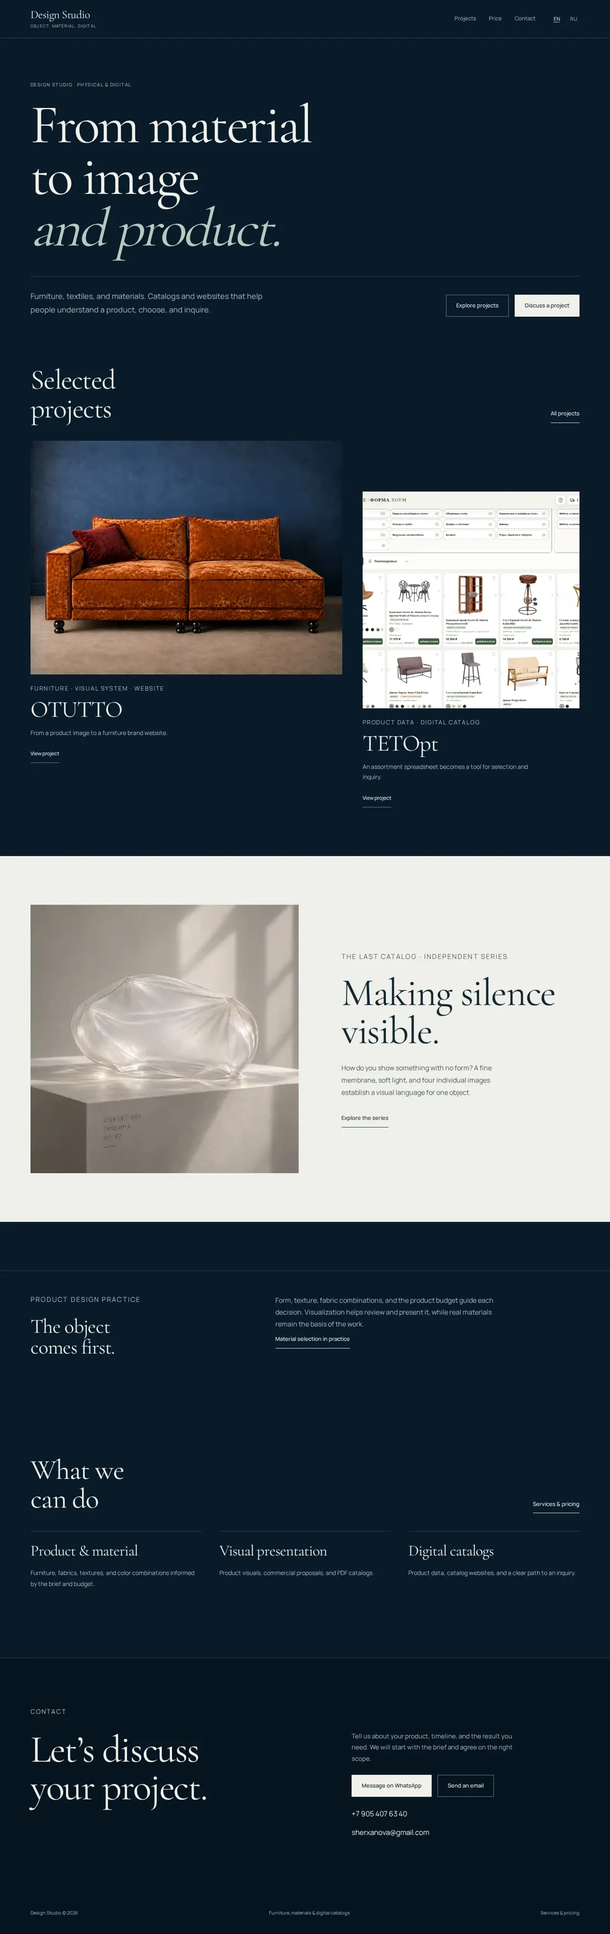
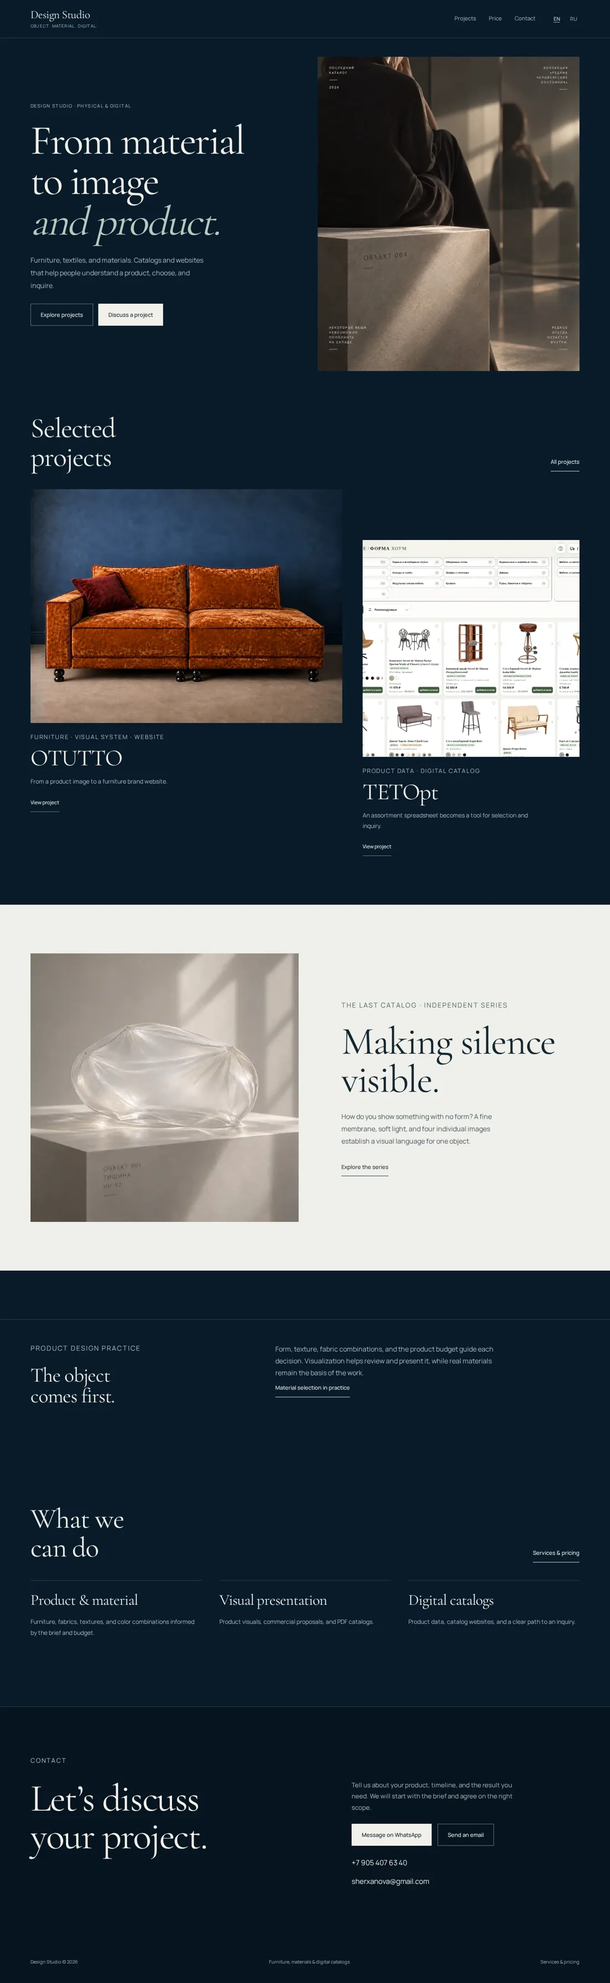
Complete bilingual hero with supplied original girl on cube artwork

diff --git a/studio.css b/studio.css
@@ -19,9 +19,12 @@ h1,h2,h3,h4,p,dl,dd{margin:0}h1,h2,h3{font-family:var(--serif);font-weight:400;l
 .desktop-nav{display:flex;align-items:center;justify-content:center;gap:30px;margin-left:auto}.desktop-nav a,.languages a{display:flex;align-items:center;justify-content:center;min-height:44px;font-size:13px;line-height:1.5}.desktop-nav a{color:var(--muted);border-bottom:1px solid transparent}.desktop-nav a:hover,.desktop-nav a[aria-current=page]{color:var(--ivory);border-bottom-color:var(--sage)}
 .languages{display:flex;gap:12px;align-items:center;flex-shrink:0}.languages a{color:var(--muted);font-size:12px;min-width:28px}.languages a[aria-current=page],.languages a[aria-current=true]{color:var(--ivory);text-decoration:underline;text-decoration-color:var(--sage)}.mobile-menu{display:none}
 .eyebrow,.hero-kicker,.project-meta{font-size:11px;line-height:1.6;letter-spacing:.13em;text-transform:uppercase;color:var(--sage)}.eyebrow,.hero-kicker{margin-bottom:26px}
-.home-hero{padding-top:clamp(58px,7vw,108px);padding-bottom:var(--section)}
-.home-hero h1{font-size:clamp(78px,9vw,136px);line-height:.94;max-width:1100px;letter-spacing:-.035em}.home-hero h1 em{color:var(--sage)}
-.hero-bottom{display:grid;grid-template-columns:minmax(0,1.1fr) minmax(0,1fr);gap:80px;align-items:end;margin-top:52px;padding-top:30px;border-top:1px solid var(--line)}.hero-bottom>p,.hero-bottom .lead{font-size:18px;line-height:1.8;max-width:50ch;color:var(--muted)}.hero-bottom .actions{justify-content:flex-end}
+.home-hero{display:grid;grid-template-columns:minmax(0,1fr) minmax(0,1.02fr);gap:clamp(36px,5vw,76px);align-items:center;padding-top:44px;padding-bottom:clamp(64px,7vw,104px)}
+.hero-copy{display:flex;flex-direction:column;gap:28px;align-items:flex-start}
+.home-hero h1{font-size:clamp(64px,6.8vw,100px);line-height:.98;letter-spacing:-.035em}.home-hero h1 em{color:var(--sage)}
+.hero-description{font-size:16px;line-height:1.85;max-width:43ch;color:var(--muted)}
+.hero-art{width:100%;max-width:620px;justify-self:end}.hero-art img{width:100%;height:auto;object-fit:contain}
+.home-hero .hero-actions{gap:12px}
 .actions{display:flex;flex-wrap:wrap;gap:14px;align-items:center}.button{display:inline-flex;justify-content:center;align-items:center;gap:10px;min-height:52px;max-width:100%;padding:13px 23px;background:var(--ivory);border:1px solid var(--ivory);color:var(--navy);font-size:13px;font-weight:500;line-height:1.6;text-align:center;transition:background .18s,border-color .18s,color .18s}.button:hover{background:var(--sage);border-color:var(--sage)}.button.secondary{background:transparent;color:var(--ivory);border-color:#70828a}.button.secondary:hover{background:var(--navy-soft);border-color:var(--sage)}.text-link{display:inline-flex;align-items:center;min-height:44px;padding:9px 0;border-bottom:1px solid currentColor;font-size:13px;font-weight:500;line-height:1.6}.text-link:hover{color:var(--sage)}
 .section-head{display:flex;justify-content:space-between;gap:50px;align-items:end;margin-bottom:42px}.section-head h2{max-width:14ch}.section-head p{max-width:39ch;color:var(--muted);font-size:14px}.section-head .text-link{flex-shrink:0}
 .project-grid{display:grid;grid-template-columns:repeat(12,minmax(0,1fr));column-gap:48px;row-gap:80px;margin-bottom:var(--section)}.project-card{grid-column:span 6;display:block}.project-card.large{grid-column:span 7}.project-card.small{grid-column:span 5;margin-top:120px}.project-image{display:block;aspect-ratio:4/3;overflow:hidden;background:var(--navy-soft)}.project-image img,img.project-image{width:100%;height:100%;object-fit:cover}.project-card .project-image img{transition:transform .35s ease}.project-card:hover .project-image img{transform:scale(1.015)}.project-card.small .project-image{aspect-ratio:1/1}.project-meta{display:block;margin-top:22px;font-size:10px;color:var(--muted)}.project-card h3{font-size:clamp(38px,3.8vw,58px);margin:10px 0 15px}.project-card p{font-size:14px;color:var(--muted);max-width:48ch}.project-link{display:inline-flex;align-items:center;min-height:44px;margin-top:15px;border-bottom:1px solid #718590;font-size:12px;font-weight:500}.project-card:hover .project-link{border-color:var(--ivory)}
@@ -34,13 +37,13 @@ h1,h2,h3,h4,p,dl,dd{margin:0}h1,h2,h3{font-family:var(--serif);font-weight:400;l
 .case-hero{padding-top:clamp(55px,7vw,104px);padding-bottom:52px}.case-hero h1{font-size:clamp(60px,7.7vw,116px);max-width:17ch}.case-hero .lead,.case-hero>p:last-child:not(.eyebrow){font-size:18px;color:var(--muted);max-width:60ch;margin-top:30px}.case-hero .actions{margin-top:30px}.case-cover{display:block;width:100%;background:var(--navy-soft);margin-bottom:55px}.case-cover>img,img.case-cover{width:100%;height:auto;max-height:900px;object-fit:cover}.case-cover figcaption{padding:14px 0 0;background:var(--navy);color:var(--muted);font-size:12px;line-height:1.8}.case-facts{display:grid;grid-template-columns:repeat(3,minmax(0,1fr));gap:45px;border-top:1px solid var(--line);border-bottom:1px solid var(--line);padding:29px 0 34px;margin-bottom:var(--section)}.case-facts dt{font-size:11px;line-height:1.6;letter-spacing:.09em;text-transform:uppercase;color:var(--sage);margin-bottom:12px}.case-facts dd{font-size:14px;line-height:1.9;color:var(--muted)}
 .case-section{display:grid;grid-template-columns:minmax(0,.8fr) minmax(0,1.2fr);gap:clamp(42px,6vw,94px);align-items:center;margin-top:var(--section);margin-bottom:var(--section)}.case-section.reverse{grid-template-columns:minmax(0,1.2fr) minmax(0,.8fr)}.case-section.reverse .case-section-copy{order:2}.case-section.reverse .case-section-media{order:1}.case-section h2{font-size:clamp(43px,4.3vw,65px);margin-bottom:27px;max-width:18ch}.case-section-copy p{font-size:15px;line-height:1.9;color:var(--muted)}.case-section-copy .text-link{margin-top:22px}.case-section-media img{width:100%;height:auto}.case-section-media figcaption,.image-pair figcaption,.media-caption{margin-top:14px;font-size:12px;line-height:1.8;color:var(--muted);max-width:65ch}.image-pair{display:grid;grid-template-columns:repeat(2,minmax(0,1fr));gap:28px;margin-top:42px;margin-bottom:42px}.image-pair img{width:100%;height:auto}.image-pair .image-contain{max-height:680px;object-fit:contain;background:var(--paper)}.media-frame{background:#dfe5e2;padding:clamp(16px,3vw,44px);color:var(--ink)}.media-frame img{width:100%;height:auto;object-fit:contain}.image-contain{object-fit:contain!important}.case-result{border-top:1px solid var(--line);border-bottom:1px solid var(--line);padding:45px 0 50px;margin-top:var(--section);margin-bottom:var(--section)}.case-result h2{font-size:clamp(42px,4.5vw,68px);max-width:22ch;margin-bottom:26px}.case-result p{font-size:17px;color:var(--muted);max-width:70ch}.case-result .actions{margin-top:30px}.related-projects{display:flex;flex-wrap:wrap;align-items:center;gap:20px 45px;border-top:1px solid var(--line);padding:30px 0 50px}.related-projects h2{font:500 12px/1.5 var(--sans);color:var(--muted);width:100%;margin-bottom:6px}.related-projects a{display:inline-flex;min-height:44px;align-items:center;font-family:var(--serif);font-size:33px}.related-projects a:hover{color:var(--sage)}.notice{font-size:12px;line-height:1.9;color:var(--muted);max-width:80ch;margin-top:24px}.notice a{text-decoration:underline}.source-note{color:var(--muted);font-size:12px;line-height:1.9}.source-note a{text-decoration:underline}.case-section-media .image-pair{margin:0}.case-section-media .image-pair img{aspect-ratio:3/4;object-fit:cover}
 @media(min-width:1600px){.wrap{padding-left:65px;padding-right:65px}.site-header{height:100px}}
-@media(max-width:1100px){.site-header{gap:25px}.desktop-nav{gap:21px}.hero-bottom{gap:38px}.hero-bottom .actions{justify-content:flex-start}.hero-bottom{grid-template-columns:1fr 1fr}.button{padding-left:19px;padding-right:19px}.project-grid{column-gap:30px}.project-card.small{margin-top:90px}.services-preview{gap:28px}.services-preview h3{font-size:32px}.contact-section .wrap{gap:40px}.contact-details .actions{flex-direction:column;align-items:flex-start}.studio-note{gap:60px}.price-item{gap:55px}.scope-grid{gap:22px}}
+@media(max-width:1100px){.site-header{gap:25px}.desktop-nav{gap:21px}.home-hero{gap:32px}.home-hero h1{font-size:clamp(60px,6.8vw,76px)}.hero-copy{gap:22px}.button{padding-left:19px;padding-right:19px}.project-grid{column-gap:30px}.project-card.small{margin-top:90px}.services-preview{gap:28px}.services-preview h3{font-size:32px}.contact-section .wrap{gap:40px}.contact-details .actions{flex-direction:column;align-items:flex-start}.studio-note{gap:60px}.price-item{gap:55px}.scope-grid{gap:22px}}
 @media(max-width:760px){:root{--space:24px;--section:72px}html{scroll-padding-top:90px}body{font-size:15px}.site-header{height:80px;gap:18px}.brand>span,.brand>strong{font-size:25px}.brand small{font-size:9px}.desktop-nav{display:none}.languages{margin-left:auto;gap:6px}.languages a{font-size:11px;min-width:26px}.mobile-menu{display:block;position:static}.mobile-menu summary{display:flex;align-items:center;justify-content:center;min-height:44px;min-width:44px;font-size:12px;list-style:none;border-bottom:1px solid transparent}.mobile-menu summary::-webkit-details-marker{display:none}.mobile-menu summary::marker{content:''}.mobile-menu[open] summary{border-bottom-color:var(--sage)}.mobile-menu nav{position:absolute;top:79px;left:0;right:0;background:var(--navy);border-bottom:1px solid var(--line);padding:16px 24px 25px;box-shadow:0 18px 25px rgba(0,0,0,.15)}.mobile-menu nav a{display:flex;align-items:center;min-height:50px;font-size:16px;border-bottom:1px solid var(--line)}.mobile-menu nav a:last-child{border-bottom:0}.mobile-menu nav a[aria-current=page]{color:var(--sage)}
-.home-hero{padding-top:54px;padding-bottom:64px}.hero-kicker,.eyebrow{font-size:10px;letter-spacing:.1em;margin-bottom:24px}.home-hero h1{font-size:clamp(61px,12.6vw,92px);line-height:.98;letter-spacing:-.03em}.hero-bottom{grid-template-columns:1fr;gap:25px;margin-top:35px;padding-top:25px}.hero-bottom>p,.hero-bottom .lead{font-size:15px;line-height:1.85;max-width:46ch}.hero-bottom .actions{justify-content:flex-start}.actions{gap:11px}.button{min-height:50px;font-size:12px;padding:13px 18px}.section-head{display:block;margin-bottom:28px}.section-head h2{font-size:45px;max-width:17ch}.section-head p{font-size:13px;margin-top:22px}.section-head .text-link{margin-top:16px}.project-grid{grid-template-columns:1fr;gap:44px;margin-bottom:65px}.project-card,.project-card.large,.project-card.small{grid-column:1;margin-top:0}.project-card.small .project-image{aspect-ratio:4/3}.project-card h3{font-size:42px;margin:8px 0 13px}.project-card p{font-size:13px;line-height:1.85}.project-meta{font-size:9px;letter-spacing:.09em;margin-top:19px}.project-link{font-size:12px;margin-top:11px}.silence-layout{grid-template-columns:1fr;gap:34px}.silence-copy h2{font-size:60px;margin-bottom:24px}.silence-copy p{font-size:14px;line-height:1.9;max-width:45ch}.silence-copy .text-link{margin-top:18px}.silence-feature{padding-top:48px;padding-bottom:55px}.services-preview{grid-template-columns:1fr;gap:26px;margin-bottom:28px}.services-preview article{padding-top:22px}.services-preview h3{font-size:34px;margin-bottom:12px}.services-preview p{font-size:13px;line-height:1.85;max-width:48ch}.studio-note{grid-template-columns:1fr;gap:25px;padding-top:36px;padding-bottom:64px;margin-top:60px}.studio-note h2{font-size:42px;max-width:20ch}.studio-note p{font-size:14px;line-height:1.9}.contact-section .wrap{grid-template-columns:1fr;gap:35px}.contact-section h2{font-size:60px;max-width:13ch}.contact-section p{font-size:14px;line-height:1.9;margin-top:24px}.contact-details .actions{flex-direction:row;gap:12px;margin-bottom:20px}.contact-details>a{font-size:16px}.contact-details>p{font-size:11px;margin-top:14px}.site-footer{font-size:10px;padding-top:19px;padding-bottom:23px;align-items:flex-start;gap:15px}.site-footer a{min-height:30px}
+.home-hero{grid-template-columns:1fr;gap:24px;padding-top:32px;padding-bottom:64px}.hero-copy{display:contents}.hero-heading{order:1}.hero-actions{order:2}.hero-art{order:3;justify-self:start;max-width:540px}.hero-description{order:4;font-size:15px;max-width:46ch}.hero-kicker,.eyebrow{font-size:10px;letter-spacing:.1em;margin-bottom:24px}.home-hero h1{font-size:clamp(50px,12.8vw,76px);line-height:.98;letter-spacing:-.03em}.home-hero .hero-kicker{margin-bottom:18px}.actions{gap:11px}.button{min-height:50px;font-size:12px;padding:13px 18px}.section-head{display:block;margin-bottom:28px}.section-head h2{font-size:45px;max-width:17ch}.section-head p{font-size:13px;margin-top:22px}.section-head .text-link{margin-top:16px}.project-grid{grid-template-columns:1fr;gap:44px;margin-bottom:65px}.project-card,.project-card.large,.project-card.small{grid-column:1;margin-top:0}.project-card.small .project-image{aspect-ratio:4/3}.project-card h3{font-size:42px;margin:8px 0 13px}.project-card p{font-size:13px;line-height:1.85}.project-meta{font-size:9px;letter-spacing:.09em;margin-top:19px}.project-link{font-size:12px;margin-top:11px}.silence-layout{grid-template-columns:1fr;gap:34px}.silence-copy h2{font-size:60px;margin-bottom:24px}.silence-copy p{font-size:14px;line-height:1.9;max-width:45ch}.silence-copy .text-link{margin-top:18px}.silence-feature{padding-top:48px;padding-bottom:55px}.services-preview{grid-template-columns:1fr;gap:26px;margin-bottom:28px}.services-preview article{padding-top:22px}.services-preview h3{font-size:34px;margin-bottom:12px}.services-preview p{font-size:13px;line-height:1.85;max-width:48ch}.studio-note{grid-template-columns:1fr;gap:25px;padding-top:36px;padding-bottom:64px;margin-top:60px}.studio-note h2{font-size:42px;max-width:20ch}.studio-note p{font-size:14px;line-height:1.9}.contact-section .wrap{grid-template-columns:1fr;gap:35px}.contact-section h2{font-size:60px;max-width:13ch}.contact-section p{font-size:14px;line-height:1.9;margin-top:24px}.contact-details .actions{flex-direction:row;gap:12px;margin-bottom:20px}.contact-details>a{font-size:16px}.contact-details>p{font-size:11px;margin-top:14px}.site-footer{font-size:10px;padding-top:19px;padding-bottom:23px;align-items:flex-start;gap:15px}.site-footer a{min-height:30px}
 .page-intro{padding-top:49px;padding-bottom:42px}.page-intro h1{font-size:clamp(52px,12vw,74px);max-width:15ch;line-height:1.02}.page-intro .lead,.page-intro>p:last-child:not(.eyebrow){font-size:15px;margin-top:23px;line-height:1.9}.price-intro-note{padding-top:20px;margin-top:28px;line-height:1.9}.page-intro .price-intro-note{font-size:12px!important}.price-item{grid-template-columns:1fr;gap:24px;padding:30px 0 34px}.price-heading h2{font-size:37px;max-width:22ch}.price-value{font-size:20px;margin-top:13px}.price-content>p{font-size:14px}.scope-grid{grid-template-columns:1fr;gap:20px;margin-top:23px}.scope-grid h3{font-size:12px;margin-bottom:6px}.scope-grid p,.scope-grid ul{font-size:13px}.case-reference{margin-top:21px;padding-top:13px}.case-reference a{font-size:12px}.case-reference p,.case-reference small{font-size:11px}.price-cta{padding-top:32px;padding-bottom:55px}.price-cta h2{font-size:43px;max-width:15ch;margin-bottom:20px}.price-cta p{font-size:14px;line-height:1.9}.price-cta .actions{margin-top:25px}
 .case-hero{padding-top:49px;padding-bottom:34px}.case-hero h1{font-size:clamp(52px,11.8vw,76px);max-width:16ch;line-height:1.03}.case-hero .lead,.case-hero>p:last-child:not(.eyebrow){font-size:15px;line-height:1.9;margin-top:24px}.case-hero .actions{margin-top:25px}.case-cover{margin-bottom:34px}.case-cover figcaption{font-size:10px;padding-top:12px}.case-facts{grid-template-columns:1fr;gap:22px;padding:25px 0 28px;margin-bottom:60px}.case-facts dt{font-size:10px;margin-bottom:7px}.case-facts dd{font-size:13px;line-height:1.85}.case-section,.case-section.reverse{grid-template-columns:1fr;gap:32px;margin-top:60px;margin-bottom:60px}.case-section.reverse .case-section-copy,.case-section.reverse .case-section-media{order:unset}.case-section h2{font-size:43px;margin-bottom:22px;max-width:20ch}.case-section-copy p{font-size:14px;line-height:1.9}.case-section-copy .text-link{margin-top:17px}.case-section-media figcaption,.image-pair figcaption,.media-caption{font-size:11px;margin-top:11px}.image-pair{gap:20px;margin-top:30px;margin-bottom:30px}.image-pair .image-contain{max-height:500px}.media-frame{padding:15px}.case-section-media .image-pair{gap:15px}.case-result{padding:33px 0 37px;margin-top:60px;margin-bottom:60px}.case-result h2{font-size:44px;margin-bottom:22px}.case-result p{font-size:14px;line-height:1.9}.related-projects{gap:10px 30px;padding-top:25px;padding-bottom:35px}.related-projects a{font-size:30px}.related-projects h2{font-size:11px;margin-bottom:8px}.notice{font-size:11px;line-height:1.9;margin-top:21px}
 }
-@media(max-width:380px){:root{--space:20px}.site-header{gap:10px}.brand>span,.brand>strong{font-size:23px}.languages{gap:2px}.languages a{min-width:24px}.mobile-menu summary{font-size:11px;min-width:40px}.home-hero h1{font-size:55px}.button{padding-left:14px;padding-right:14px;font-size:11px}.home-hero .actions{gap:10px}.contact-section h2{font-size:53px}.price-heading h2{font-size:33px}.price-cta h2{font-size:39px}.image-pair{grid-template-columns:1fr}.case-section-media .image-pair{grid-template-columns:1fr}.site-footer{flex-direction:column;gap:5px}}
+@media(max-width:380px){:root{--space:20px}.site-header{gap:10px}.brand>span,.brand>strong{font-size:23px}.languages{gap:2px}.languages a{min-width:24px}.mobile-menu summary{font-size:11px;min-width:40px}.home-hero h1{font-size:48px}.button{padding-left:14px;padding-right:14px;font-size:11px}.home-hero .actions{gap:10px}.contact-section h2{font-size:53px}.price-heading h2{font-size:33px}.price-cta h2{font-size:39px}.image-pair{grid-template-columns:1fr}.case-section-media .image-pair{grid-template-columns:1fr}.site-footer{flex-direction:column;gap:5px}}
 @media(prefers-reduced-motion:reduce){html{scroll-behavior:auto}*,*::before,*::after{animation:none!important;transition:none!important}}
 /* Generated page compositions. Preserve the shared gutter on padded sections. */
 :is(.price-cta,.case-facts,.case-result,.related-projects).wrap{padding-left:var(--space);padding-right:var(--space)}

diff --git a/index.html b/index.html
@@ -5,4 +5,4 @@
 <link rel="icon" type="image/svg+xml" href="favicon.svg"><link rel="stylesheet" href="studio.css"><script defer src="studio.js"></script></head><body>
 <a class="skip-link" href="#main">К содержимому</a>
 <header class="site-header wrap"><a class="brand" href="index.html" aria-label="Дизайн-студия — главная"><span>Дизайн-студия</span><small>Предмет. Материал. Цифра.</small></a><nav class="desktop-nav" aria-label="Основная навигация"><a href="projects.html">Проекты</a><a href="price.html">Цены</a><a href="index.html#contact">Контакты</a></nav><div class="languages" aria-label="Язык сайта"><a href="index.html" lang="ru" aria-current="true">RU</a><a href="en/index.html" lang="en" data-language-switch>EN</a></div><details class="mobile-menu"><summary>Меню</summary><nav aria-label="Мобильная навигация"><a href="projects.html">Проекты</a><a href="price.html">Цены</a><a href="index.html#contact">Контакты</a></nav></details></header>
-<main id="main"><section class="home-hero wrap"><p class="hero-kicker">Дизайн-студия · Предметная и цифровая среда</p><h1>От материала<br>к образу<br><em>и продукту.</em></h1><div class="hero-bottom"><p class="lede">Мебель, текстиль и материалы. Каталоги и сайты, которые помогают понять продукт, выбрать и заказать.</p><div class="actions"><a href="#projects" class="button secondary">Смотреть проекты</a><a href="https://wa.me/79054076340?text=%D0%97%D0%B4%D1%80%D0%B0%D0%B2%D1%81%D1%82%D0%B2%D1%83%D0%B9%D1%82%D0%B5%21%20%D0%A5%D0%BE%D1%87%D1%83%20%D0%BE%D0%B1%D1%81%D1%83%D0%B4%D0%B8%D1%82%D1%8C%20%D0%BF%D1%80%D0%BE%D0%B5%D0%BA%D1%82%20%D1%81%20%D0%B4%D0%B8%D0%B7%D0%B0%D0%B9%D0%BD-%D1%81%D1%82%D1%83%D0%B4%D0%B8%D0%B5%D0%B9." class="button" target="_blank" rel="noopener noreferrer">Обсудить проект</a></div></div></section><section class="wrap projects-section" id="projects"><div class="section-head"><h2>Избранные<br>проекты</h2><a href="projects.html" class="text-link">Все проекты</a></div><div class="project-grid"><article class="project-card large"><a class="project-image" href="otutto.html" tabindex="-1" aria-hidden="true"><img src="assets/studio/otutto-final.webp" alt="ОТУТТО" width="1448" height="1086" class="" loading="lazy" decoding="async"></a><p class="project-meta">Мебель · Визуальная система · Сайт</p><h3><a href="otutto.html">ОТУТТО</a></h3><p>От образа изделия до сайта мебельного бренда.</p><a href="otutto.html" class="project-link">Смотреть проект</a></article><article class="project-card small"><a class="project-image" href="forma-home.html" tabindex="-1" aria-hidden="true"><img src="assets/studio/tetopt-catalog.webp" alt="TETOpt" width="1440" height="1000" class="" loading="lazy" decoding="async"></a><p class="project-meta">Товарные данные · Цифровой каталог</p><h3><a href="forma-home.html">TETOpt</a></h3><p>Таблица ассортимента становится инструментом выбора и заказа.</p><a href="forma-home.html" class="project-link">Смотреть проект</a></article></div></section><section class="silence-feature"><div class="wrap silence-layout"><figure class=""><img src="assets/studio/silence-01-hero.webp" alt="«Тишина»: прозрачная оболочка на каменном постаменте" width="768" height="768" class="" loading="lazy" decoding="async"></figure><div class="silence-copy"><p class="hero-kicker">«Последний каталог» · Авторская серия</p><h2>Увидеть<br>тишину.</h2><p>Как показать то, у чего нет формы? Тонкая оболочка, мягкий свет и четыре самостоятельных кадра — визуальный язык одного объекта.</p><a href="silence.html" class="text-link">Смотреть серию</a></div></div></section><section class="wrap studio-note"><div><p class="hero-kicker">Предметная практика</p><h2>Сначала —<br>сам предмет.</h2></div><div><p>Форма, фактура, сочетание тканей и бюджет изделия определяют решение. Визуализация помогает его проверить и показать, но не заменяет работу с реальными материалами.</p><a href="materials.html" class="text-link">О работе с материалами</a></div></section><section class="wrap services-section"><div class="section-head"><h2>Чем можем<br>помочь</h2><a href="price.html" class="text-link">Услуги и цены</a></div><div class="services-preview"><article><h3>Предмет и материал</h3><p>Мебель, ткани, фактуры и цветовые сочетания с учётом задачи и стоимости.</p></article><article><h3>Визуальная подача</h3><p>Образы изделий, коммерческие предложения и PDF-каталоги.</p></article><article><h3>Цифровой каталог</h3><p>Товарные данные, сайты-каталоги и понятный путь к обращению.</p></article></div></section><section class="contact-section wrap" id="contact"><p class="hero-kicker">Контакты</p><h2>Обсудим вашу задачу?</h2><p>Расскажите о продукте, сроках и нужном результате. Начнём с задачи и определим подходящий объём работы.</p><div class="actions"><a href="https://wa.me/79054076340?text=%D0%97%D0%B4%D1%80%D0%B0%D0%B2%D1%81%D1%82%D0%B2%D1%83%D0%B9%D1%82%D0%B5%21%20%D0%A5%D0%BE%D1%87%D1%83%20%D0%BE%D0%B1%D1%81%D1%83%D0%B4%D0%B8%D1%82%D1%8C%20%D0%BF%D1%80%D0%BE%D0%B5%D0%BA%D1%82%20%D1%81%20%D0%B4%D0%B8%D0%B7%D0%B0%D0%B9%D0%BD-%D1%81%D1%82%D1%83%D0%B4%D0%B8%D0%B5%D0%B9." class="button" target="_blank" rel="noopener noreferrer">Написать в WhatsApp</a><a href="mailto:sherxanova@gmail.com?subject=%D0%9F%D1%80%D0%BE%D0%B5%D0%BA%D1%82%20%D0%B4%D0%BB%D1%8F%20%D0%B4%D0%B8%D0%B7%D0%B0%D0%B9%D0%BD-%D1%81%D1%82%D1%83%D0%B4%D0%B8%D0%B8" class="button secondary">Написать на почту</a></div><div class="contact-details"><a href="tel:+79054076340">+7 905 407 63 40</a><a href="mailto:sherxanova@gmail.com?subject=%D0%9F%D1%80%D0%BE%D0%B5%D0%BA%D1%82%20%D0%B4%D0%BB%D1%8F%20%D0%B4%D0%B8%D0%B7%D0%B0%D0%B9%D0%BD-%D1%81%D1%82%D1%83%D0%B4%D0%B8%D0%B8">sherxanova@gmail.com</a></div></section></main><footer class="site-footer wrap"><span>Дизайн-студия © 2026</span><span>Мебель, материалы и цифровые каталоги</span><a href="price.html">Услуги и цены</a></footer></body></html>
+<main id="main"><section class="home-hero wrap"><div class="hero-copy"><div class="hero-heading"><p class="hero-kicker">Дизайн-студия · Предметная и цифровая среда</p><h1>От материала<br>к образу<br><em>и продукту.</em></h1></div><p class="hero-description lede">Мебель, текстиль и материалы. Каталоги и сайты, которые помогают понять продукт, выбрать и заказать.</p><div class="actions hero-actions"><a href="#projects" class="button secondary">Смотреть проекты</a><a href="https://wa.me/79054076340?text=%D0%97%D0%B4%D1%80%D0%B0%D0%B2%D1%81%D1%82%D0%B2%D1%83%D0%B9%D1%82%D0%B5%21%20%D0%A5%D0%BE%D1%87%D1%83%20%D0%BE%D0%B1%D1%81%D1%83%D0%B4%D0%B8%D1%82%D1%8C%20%D0%BF%D1%80%D0%BE%D0%B5%D0%BA%D1%82%20%D1%81%20%D0%B4%D0%B8%D0%B7%D0%B0%D0%B9%D0%BD-%D1%81%D1%82%D1%83%D0%B4%D0%B8%D0%B5%D0%B9." class="button" target="_blank" rel="noopener noreferrer">Обсудить проект</a></div></div><figure class="hero-art"><img src="assets/studio/girl-on-cube.webp" alt="Художественный образ «Последнего каталога»: девушка сидит на каменном кубе рядом с зеркалом." width="1066" height="1280" class="" fetchpriority="high" decoding="async"></figure></section><section class="wrap projects-section" id="projects"><div class="section-head"><h2>Избранные<br>проекты</h2><a href="projects.html" class="text-link">Все проекты</a></div><div class="project-grid"><article class="project-card large"><a class="project-image" href="otutto.html" tabindex="-1" aria-hidden="true"><img src="assets/studio/otutto-final.webp" alt="ОТУТТО" width="1448" height="1086" class="" loading="lazy" decoding="async"></a><p class="project-meta">Мебель · Визуальная система · Сайт</p><h3><a href="otutto.html">ОТУТТО</a></h3><p>От образа изделия до сайта мебельного бренда.</p><a href="otutto.html" class="project-link">Смотреть проект</a></article><article class="project-card small"><a class="project-image" href="forma-home.html" tabindex="-1" aria-hidden="true"><img src="assets/studio/tetopt-catalog.webp" alt="TETOpt" width="1440" height="1000" class="" loading="lazy" decoding="async"></a><p class="project-meta">Товарные данные · Цифровой каталог</p><h3><a href="forma-home.html">TETOpt</a></h3><p>Таблица ассортимента становится инструментом выбора и заказа.</p><a href="forma-home.html" class="project-link">Смотреть проект</a></article></div></section><section class="silence-feature"><div class="wrap silence-layout"><figure class=""><img src="assets/studio/silence-01-hero.webp" alt="«Тишина»: прозрачная оболочка на каменном постаменте" width="768" height="768" class="" loading="lazy" decoding="async"></figure><div class="silence-copy"><p class="hero-kicker">«Последний каталог» · Авторская серия</p><h2>Увидеть<br>тишину.</h2><p>Как показать то, у чего нет формы? Тонкая оболочка, мягкий свет и четыре самостоятельных кадра — визуальный язык одного объекта.</p><a href="silence.html" class="text-link">Смотреть серию</a></div></div></section><section class="wrap studio-note"><div><p class="hero-kicker">Предметная практика</p><h2>Сначала —<br>сам предмет.</h2></div><div><p>Форма, фактура, сочетание тканей и бюджет изделия определяют решение. Визуализация помогает его проверить и показать, но не заменяет работу с реальными материалами.</p><a href="materials.html" class="text-link">О работе с материалами</a></div></section><section class="wrap services-section"><div class="section-head"><h2>Чем можем<br>помочь</h2><a href="price.html" class="text-link">Услуги и цены</a></div><div class="services-preview"><article><h3>Предмет и материал</h3><p>Мебель, ткани, фактуры и цветовые сочетания с учётом задачи и стоимости.</p></article><article><h3>Визуальная подача</h3><p>Образы изделий, коммерческие предложения и PDF-каталоги.</p></article><article><h3>Цифровой каталог</h3><p>Товарные данные, сайты-каталоги и понятный путь к обращению.</p></article></div></section><section class="contact-section wrap" id="contact"><p class="hero-kicker">Контакты</p><h2>Обсудим вашу задачу?</h2><p>Расскажите о продукте, сроках и нужном результате. Начнём с задачи и определим подходящий объём работы.</p><div class="actions"><a href="https://wa.me/79054076340?text=%D0%97%D0%B4%D1%80%D0%B0%D0%B2%D1%81%D1%82%D0%B2%D1%83%D0%B9%D1%82%D0%B5%21%20%D0%A5%D0%BE%D1%87%D1%83%20%D0%BE%D0%B1%D1%81%D1%83%D0%B4%D0%B8%D1%82%D1%8C%20%D0%BF%D1%80%D0%BE%D0%B5%D0%BA%D1%82%20%D1%81%20%D0%B4%D0%B8%D0%B7%D0%B0%D0%B9%D0%BD-%D1%81%D1%82%D1%83%D0%B4%D0%B8%D0%B5%D0%B9." class="button" target="_blank" rel="noopener noreferrer">Написать в WhatsApp</a><a href="mailto:sherxanova@gmail.com?subject=%D0%9F%D1%80%D0%BE%D0%B5%D0%BA%D1%82%20%D0%B4%D0%BB%D1%8F%20%D0%B4%D0%B8%D0%B7%D0%B0%D0%B9%D0%BD-%D1%81%D1%82%D1%83%D0%B4%D0%B8%D0%B8" class="button secondary">Написать на почту</a></div><div class="contact-details"><a href="tel:+79054076340">+7 905 407 63 40</a><a href="mailto:sherxanova@gmail.com?subject=%D0%9F%D1%80%D0%BE%D0%B5%D0%BA%D1%82%20%D0%B4%D0%BB%D1%8F%20%D0%B4%D0%B8%D0%B7%D0%B0%D0%B9%D0%BD-%D1%81%D1%82%D1%83%D0%B4%D0%B8%D0%B8">sherxanova@gmail.com</a></div></section></main><footer class="site-footer wrap"><span>Дизайн-студия © 2026</span><span>Мебель, материалы и цифровые каталоги</span><a href="price.html">Услуги и цены</a></footer></body></html>

diff --git a/en/index.html b/en/index.html
@@ -5,4 +5,4 @@
 <link rel="icon" type="image/svg+xml" href="../favicon.svg"><link rel="stylesheet" href="../studio.css"><script defer src="../studio.js"></script></head><body>
 <a class="skip-link" href="#main">Skip to content</a>
 <header class="site-header wrap"><a class="brand" href="index.html" aria-label="Design Studio — home"><span>Design Studio</span><small>Object. Material. Digital.</small></a><nav class="desktop-nav" aria-label="Main navigation"><a href="projects.html">Projects</a><a href="price.html">Price</a><a href="index.html#contact">Contact</a></nav><div class="languages" aria-label="Site language"><a href="index.html" lang="en" aria-current="true">EN</a><a href="../index.html" lang="ru" data-language-switch>RU</a></div><details class="mobile-menu"><summary>Menu</summary><nav aria-label="Mobile navigation"><a href="projects.html">Projects</a><a href="price.html">Price</a><a href="index.html#contact">Contact</a></nav></details></header>
-<main id="main"><section class="home-hero wrap"><p class="hero-kicker">Design Studio · Physical & digital</p><h1>From material<br>to image<br><em>and product.</em></h1><div class="hero-bottom"><p class="lede">Furniture, textiles, and materials. Catalogs and websites that help people understand a product, choose, and inquire.</p><div class="actions"><a href="#projects" class="button secondary">Explore projects</a><a href="https://wa.me/79054076340?text=Hello%21%20I%20would%20like%20to%20discuss%20a%20project%20with%20Design%20Studio." class="button" target="_blank" rel="noopener noreferrer">Discuss a project</a></div></div></section><section class="wrap projects-section" id="projects"><div class="section-head"><h2>Selected<br>projects</h2><a href="projects.html" class="text-link">All projects</a></div><div class="project-grid"><article class="project-card large"><a class="project-image" href="otutto.html" tabindex="-1" aria-hidden="true"><img src="../assets/studio/otutto-final.webp" alt="OTUTTO" width="1448" height="1086" class="" loading="lazy" decoding="async"></a><p class="project-meta">Furniture · Visual system · Website</p><h3><a href="otutto.html">OTUTTO</a></h3><p>From a product image to a furniture brand website.</p><a href="otutto.html" class="project-link">View project</a></article><article class="project-card small"><a class="project-image" href="forma-home.html" tabindex="-1" aria-hidden="true"><img src="../assets/studio/tetopt-catalog.webp" alt="TETOpt" width="1440" height="1000" class="" loading="lazy" decoding="async"></a><p class="project-meta">Product data · Digital catalog</p><h3><a href="forma-home.html">TETOpt</a></h3><p>An assortment spreadsheet becomes a tool for selection and inquiry.</p><a href="forma-home.html" class="project-link">View project</a></article></div></section><section class="silence-feature"><div class="wrap silence-layout"><figure class=""><img src="../assets/studio/silence-01-hero.webp" alt="Silence: a transparent membrane on a stone pedestal" width="768" height="768" class="" loading="lazy" decoding="async"></figure><div class="silence-copy"><p class="hero-kicker">The Last Catalog · Independent series</p><h2>Making silence<br>visible.</h2><p>How do you show something with no form? A fine membrane, soft light, and four individual images establish a visual language for one object.</p><a href="silence.html" class="text-link">Explore the series</a></div></div></section><section class="wrap studio-note"><div><p class="hero-kicker">Product design practice</p><h2>The object<br>comes first.</h2></div><div><p>Form, texture, fabric combinations, and the product budget guide each decision. Visualization helps review and present it, while real materials remain the basis of the work.</p><a href="materials.html" class="text-link">Material selection in practice</a></div></section><section class="wrap services-section"><div class="section-head"><h2>What we<br>can do</h2><a href="price.html" class="text-link">Services & pricing</a></div><div class="services-preview"><article><h3>Product & material</h3><p>Furniture, fabrics, textures, and color combinations informed by the brief and budget.</p></article><article><h3>Visual presentation</h3><p>Product visuals, commercial proposals, and PDF catalogs.</p></article><article><h3>Digital catalogs</h3><p>Product data, catalog websites, and a clear path to an inquiry.</p></article></div></section><section class="contact-section wrap" id="contact"><p class="hero-kicker">Contact</p><h2>Let’s discuss your project.</h2><p>Tell us about your product, timeline, and the result you need. We will start with the brief and agree on the right scope.</p><div class="actions"><a href="https://wa.me/79054076340?text=Hello%21%20I%20would%20like%20to%20discuss%20a%20project%20with%20Design%20Studio." class="button" target="_blank" rel="noopener noreferrer">Message on WhatsApp</a><a href="mailto:sherxanova@gmail.com?subject=Project%20inquiry%20%E2%80%94%20Design%20Studio" class="button secondary">Send an email</a></div><div class="contact-details"><a href="tel:+79054076340">+7 905 407 63 40</a><a href="mailto:sherxanova@gmail.com?subject=Project%20inquiry%20%E2%80%94%20Design%20Studio">sherxanova@gmail.com</a></div></section></main><footer class="site-footer wrap"><span>Design Studio © 2026</span><span>Furniture, materials & digital catalogs</span><a href="price.html">Services & pricing</a></footer></body></html>
+<main id="main"><section class="home-hero wrap"><div class="hero-copy"><div class="hero-heading"><p class="hero-kicker">Design Studio · Physical & digital</p><h1>From material<br>to image<br><em>and product.</em></h1></div><p class="hero-description lede">Furniture, textiles, and materials. Catalogs and websites that help people understand a product, choose, and inquire.</p><div class="actions hero-actions"><a href="#projects" class="button secondary">Explore projects</a><a href="https://wa.me/79054076340?text=Hello%21%20I%20would%20like%20to%20discuss%20a%20project%20with%20Design%20Studio." class="button" target="_blank" rel="noopener noreferrer">Discuss a project</a></div></div><figure class="hero-art"><img src="../assets/studio/girl-on-cube.webp" alt="Artwork from The Last Catalog: a woman sitting on a stone cube beside a mirror." width="1066" height="1280" class="" fetchpriority="high" decoding="async"></figure></section><section class="wrap projects-section" id="projects"><div class="section-head"><h2>Selected<br>projects</h2><a href="projects.html" class="text-link">All projects</a></div><div class="project-grid"><article class="project-card large"><a class="project-image" href="otutto.html" tabindex="-1" aria-hidden="true"><img src="../assets/studio/otutto-final.webp" alt="OTUTTO" width="1448" height="1086" class="" loading="lazy" decoding="async"></a><p class="project-meta">Furniture · Visual system · Website</p><h3><a href="otutto.html">OTUTTO</a></h3><p>From a product image to a furniture brand website.</p><a href="otutto.html" class="project-link">View project</a></article><article class="project-card small"><a class="project-image" href="forma-home.html" tabindex="-1" aria-hidden="true"><img src="../assets/studio/tetopt-catalog.webp" alt="TETOpt" width="1440" height="1000" class="" loading="lazy" decoding="async"></a><p class="project-meta">Product data · Digital catalog</p><h3><a href="forma-home.html">TETOpt</a></h3><p>An assortment spreadsheet becomes a tool for selection and inquiry.</p><a href="forma-home.html" class="project-link">View project</a></article></div></section><section class="silence-feature"><div class="wrap silence-layout"><figure class=""><img src="../assets/studio/silence-01-hero.webp" alt="Silence: a transparent membrane on a stone pedestal" width="768" height="768" class="" loading="lazy" decoding="async"></figure><div class="silence-copy"><p class="hero-kicker">The Last Catalog · Independent series</p><h2>Making silence<br>visible.</h2><p>How do you show something with no form? A fine membrane, soft light, and four individual images establish a visual language for one object.</p><a href="silence.html" class="text-link">Explore the series</a></div></div></section><section class="wrap studio-note"><div><p class="hero-kicker">Product design practice</p><h2>The object<br>comes first.</h2></div><div><p>Form, texture, fabric combinations, and the product budget guide each decision. Visualization helps review and present it, while real materials remain the basis of the work.</p><a href="materials.html" class="text-link">Material selection in practice</a></div></section><section class="wrap services-section"><div class="section-head"><h2>What we<br>can do</h2><a href="price.html" class="text-link">Services & pricing</a></div><div class="services-preview"><article><h3>Product & material</h3><p>Furniture, fabrics, textures, and color combinations informed by the brief and budget.</p></article><article><h3>Visual presentation</h3><p>Product visuals, commercial proposals, and PDF catalogs.</p></article><article><h3>Digital catalogs</h3><p>Product data, catalog websites, and a clear path to an inquiry.</p></article></div></section><section class="contact-section wrap" id="contact"><p class="hero-kicker">Contact</p><h2>Let’s discuss your project.</h2><p>Tell us about your product, timeline, and the result you need. We will start with the brief and agree on the right scope.</p><div class="actions"><a href="https://wa.me/79054076340?text=Hello%21%20I%20would%20like%20to%20discuss%20a%20project%20with%20Design%20Studio." class="button" target="_blank" rel="noopener noreferrer">Message on WhatsApp</a><a href="mailto:sherxanova@gmail.com?subject=Project%20inquiry%20%E2%80%94%20Design%20Studio" class="button secondary">Send an email</a></div><div class="contact-details"><a href="tel:+79054076340">+7 905 407 63 40</a><a href="mailto:sherxanova@gmail.com?subject=Project%20inquiry%20%E2%80%94%20Design%20Studio">sherxanova@gmail.com</a></div></section></main><footer class="site-footer wrap"><span>Design Studio © 2026</span><span>Furniture, materials & digital catalogs</span><a href="price.html">Services & pricing</a></footer></body></html>

diff --git a/scripts/build.py b/scripts/build.py
@@ -47,7 +47,7 @@ def card(item,i):
     return f'<article class="project-card {"large" if i%2==0 else "small"}"><a class="project-image" href="{url}" tabindex="-1" aria-hidden="true">'+img(photo,tr(ru,en))+f'</a><p class="project-meta">{tr(catru,caten)}</p><h3>{link(url,tr(ru,en))}</h3><p>{tr(desc,descen)}</p>'+link(url,tr('Смотреть проект','View project'),'project-link')+'</article>'
 def projects_grid(items=PROJECTS):return '<div class="project-grid">'+''.join(card(it,i) for i,it in enumerate(items))+'</div>'
 def home():
-    hero='<section class="home-hero wrap"><p class="hero-kicker">'+tr('Дизайн-студия · Предметная и цифровая среда','Design Studio · Physical & digital')+'</p><h1>'+tr('От материала<br>к образу<br><em>и продукту.</em>','From material<br>to image<br><em>and product.</em>')+'</h1><div class="hero-bottom"><p class="lede">'+tr('Мебель, текстиль и материалы. Каталоги и сайты, которые помогают понять продукт, выбрать и заказать.','Furniture, textiles, and materials. Catalogs and websites that help people understand a product, choose, and inquire.')+'</p><div class="actions">'+link('#projects',tr('Смотреть проекты','Explore projects'),'button secondary')+link(contact_url(),tr('Обсудить проект','Discuss a project'),'button',True)+'</div></div></section>'
+    hero='<section class="home-hero wrap"><div class="hero-copy"><div class="hero-heading"><p class="hero-kicker">'+tr('Дизайн-студия · Предметная и цифровая среда','Design Studio · Physical & digital')+'</p><h1>'+tr('От материала<br>к образу<br><em>и продукту.</em>','From material<br>to image<br><em>and product.</em>')+'</h1></div><p class="hero-description lede">'+tr('Мебель, текстиль и материалы. Каталоги и сайты, которые помогают понять продукт, выбрать и заказать.','Furniture, textiles, and materials. Catalogs and websites that help people understand a product, choose, and inquire.')+'</p><div class="actions hero-actions">'+link('#projects',tr('Смотреть проекты','Explore projects'),'button secondary')+link(contact_url(),tr('Обсудить проект','Discuss a project'),'button',True)+'</div></div>'+figure('girl-on-cube.webp',tr('Художественный образ «Последнего каталога»: девушка сидит на каменном кубе рядом с зеркалом.','Artwork from The Last Catalog: a woman sitting on a stone cube beside a mirror.'),cls='hero-art',eager=True)+'</section>'
     featured='<section class="wrap projects-section" id="projects"><div class="section-head"><h2>'+tr('Избранные<br>проекты','Selected<br>projects')+'</h2>'+link('projects.html',tr('Все проекты','All projects'),'text-link')+'</div>'+projects_grid(PROJECTS[:2])+'</section>'
     silence='<section class="silence-feature"><div class="wrap silence-layout">'+figure('silence-01-hero.webp',tr('«Тишина»: прозрачная оболочка на каменном постаменте','Silence: a transparent membrane on a stone pedestal'))+'<div class="silence-copy"><p class="hero-kicker">'+tr('«Последний каталог» · Авторская серия','The Last Catalog · Independent series')+'</p><h2>'+tr('Увидеть<br>тишину.','Making silence<br>visible.')+'</h2><p>'+tr('Как показать то, у чего нет формы? Тонкая оболочка, мягкий свет и четыре самостоятельных кадра — визуальный язык одного объекта.','How do you show something with no form? A fine membrane, soft light, and four individual images establish a visual language for one object.')+'</p>'+link('silence.html',tr('Смотреть серию','Explore the series'),'text-link')+'</div></div></section>'
     material='<section class="wrap studio-note"><div><p class="hero-kicker">'+tr('Предметная практика','Product design practice')+'</p><h2>'+tr('Сначала —<br>сам предмет.','The object<br>comes first.')+'</h2></div><div><p>'+tr('Форма, фактура, сочетание тканей и бюджет изделия определяют решение. Визуализация помогает его проверить и показать, но не заменяет работу с реальными материалами.','Form, texture, fabric combinations, and the product budget guide each decision. Visualization helps review and present it, while real materials remain the basis of the work.')+'</p>'+link('materials.html',tr('О работе с материалами','Material selection in practice'),'text-link')+'</div></section>'

diff --git a/docs/preview/README.md b/docs/preview/README.md
@@ -4,6 +4,8 @@ Chromium, реальные размеры просмотра 1440×1000 и 390×
 
 | Страница | Десктоп | Телефон |
 | --- | --- | --- |
+| Первый экран RU | [Открыть](ru-hero-1440.webp) | [Открыть](ru-hero-390.webp) |
+| Первый экран EN | [Открыть](en-hero-1440.webp) | [Открыть](en-hero-390.webp) |
 | Главная RU | [Открыть](ru-index-1440.webp) | [Открыть](ru-index-390.webp) |
 | Цены RU | [Открыть](ru-price-1440.webp) | [Открыть](ru-price-390.webp) |
 | ОТУТТО | [Открыть](ru-otutto-1440.webp) | [Открыть](ru-otutto-390.webp) |
@@ -13,6 +15,6 @@ Chromium, реальные размеры просмотра 1440×1000 и 390×
 | Главная EN | [Открыть](en-index-1440.webp) | [Открыть](en-index-390.webp) |
 | Price EN | [Открыть](en-price-1440.webp) | [Открыть](en-price-390.webp) |
 
-[Результаты 48 браузерных проверок](browser-results.json). [Результаты axe-core](accessibility.json): 28 проверок, обнаруженных нарушений нет.
+[Результаты 48 браузерных проверок](browser-results.json). [Дополнительные проверки первого экрана с оригиналом](hero-results.json): 10 размеров/языков и 4 проверки axe, ошибок нет. [Результаты axe-core](accessibility.json): 28 проверок, обнаруженных нарушений нет.
 
-Это снимки рабочей ветки, не опубликованный сайт. Оригинал девушки на кубе не найден, поэтому первый экран пока типографический; этот пункт ТЗ остаётся открытым.
+Это снимки рабочей ветки, не опубликованный сайт. Первый экран обновлён с оригиналом девушки на кубе, переданным владелицей отдельным вложением. Кадр показан целиком на десктопе и телефоне.
